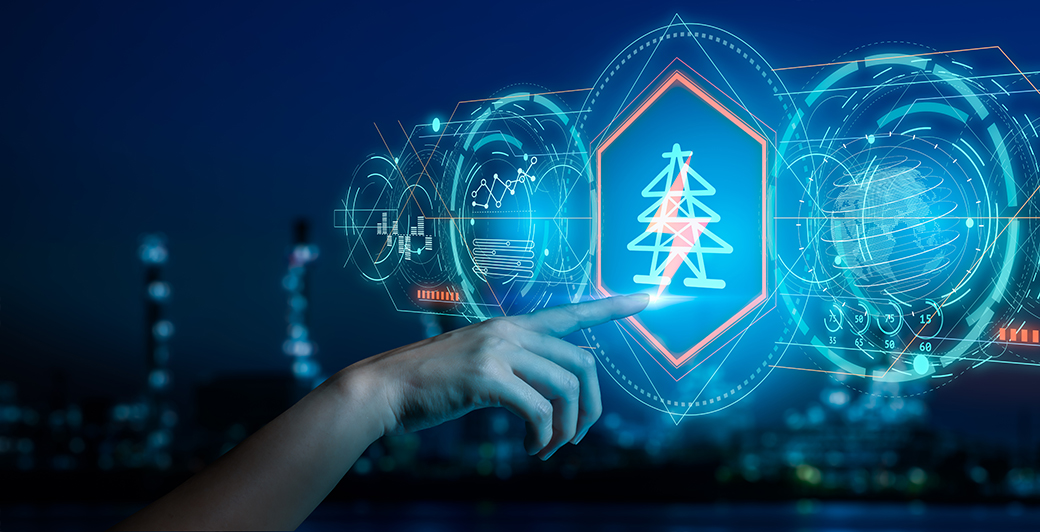
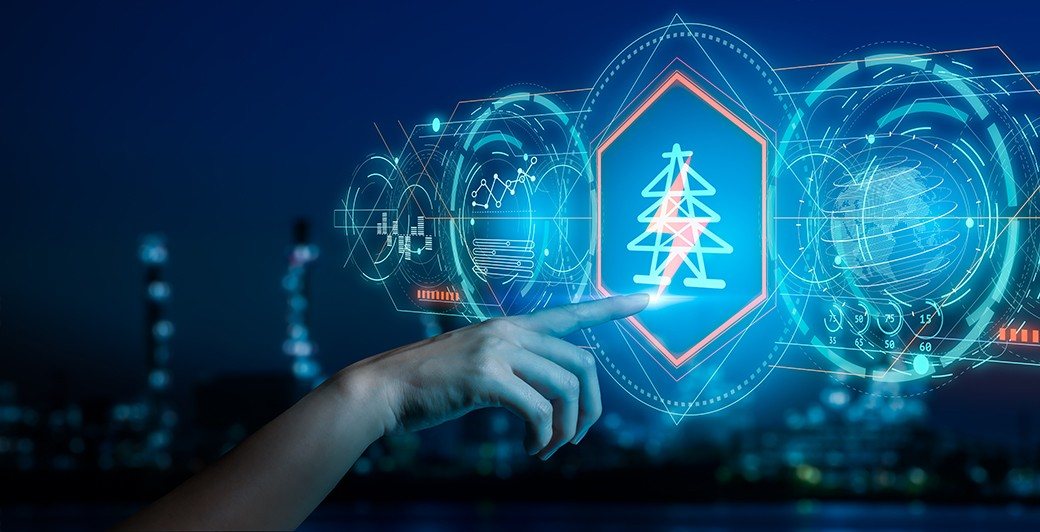
Changes related to images on azure storage

diff --git a/apps/ptg-ui-apps-react-backend/src/app/constants/constants.ts b/apps/ptg-ui-apps-react-backend/src/app/constants/constants.ts
@@ -16,10 +16,7 @@ import vue_Image from '../../assets/images/vue.png';
 import javascript_Image from '../../assets/images/javascript-1.svg';
 import nextjs_Image from '../../assets/images/nextjs.png';
 import MaterialUI_Image from '../../assets/images/materialui.png';
-import SujalImage from '../../assets/images/UI-Sujal.jpg';
-import NitinImage from '../../assets/images/UI-Nitin.jpg';
-import LokeshImage from '../../assets/images/UI-Lokesh.jpg';
-import LokeshDaiyaImage from '../../assets/images/UI-Lokesh.jpeg';
+import { environment } from '@ptg-ui-apps-react-backend/environments/environment';
 export const tabs = [
   { label: 'Home', to: '/home' },
 
@@ -137,24 +134,36 @@ export const contactsTeams = [
     name: 'Nitin Gupta',
     designation: 'Business Unit Head',
     email: '[email redacted]',
-    photo: NitinImage,
+    photo:
+      process.env['NODE_ENV'] === 'production'
+        ? `${environment.url}/UI-Nitin.jpg`
+        : `${environment.localUrl}/assets/images/UI-Nitin.jpg`,
   },
   {
     name: 'Lokesh Sapre',
     designation: 'Competency Head',
     email: '[email redacted]',
-    photo: LokeshImage,
+    photo:
+      process.env['NODE_ENV'] === 'production'
+        ? `${environment.url}/UI-Lokesh.jpg`
+        : `${environment.localUrl}/assets/images/UI-Lokesh.jpg`,
   },
   {
     name: 'Sujal Ray',
     designation: 'Competency Manager',
     email: '[email redacted]',
-    photo: SujalImage,
+    photo:
+      process.env['NODE_ENV'] === 'production'
+        ? `${environment.url}/UI-Sujal.jpg`
+        : `${environment.localUrl}/assets/images/UI-Sujal.jpg`,
   },
   {
     name: 'Lokesh Daiya',
     designation: 'Solution Architect',
     email: '[email redacted]',
-    photo: LokeshDaiyaImage,
+    photo:
+      process.env['NODE_ENV'] === 'production'
+        ? `${environment.url}/UI-Lokesh.jpeg`
+        : `${environment.localUrl}/assets/images/UI-Nitin.jpeg`,
   },
 ];

diff --git a/apps/ptg-ui-apps-react-backend/src/app/components/Home.tsx b/apps/ptg-ui-apps-react-backend/src/app/components/Home.tsx
@@ -1,17 +1,23 @@
 import React from 'react';
 import { Col, Row, Image, Container } from 'react-bootstrap';
-
-import visionImage from '../../assets/images/yash_vision.jpg';
-import missionImage from '../../assets/images/yash_mission.jpg';
 import { carouselItems } from '@ptg-ui-apps-react-backend/constants/constants';
 import ClientCarousel from './CarouselImageContainer'; // Import the new carousel component
+import { environment } from '@ptg-ui-apps-react-backend/environments/environment';
 const Home: React.FC = () => {
   return (
     <Container fluid className="bg-dark text-light p-5">
       <section id="about" className="text-center">
         <Row className="mb-5">
           <Col xs={12} md={6} className="mb-4">
-            <Image src={visionImage} fluid alt="Vision" />
+            <Image
+              src={
+                process.env['NODE_ENV'] === 'production'
+                  ? `${environment.url}/yash_vision.jpg`
+                  : `${environment.localUrl}/assets/images/yash_vision.jpg`
+              }
+              fluid
+              alt="Vision"
+            />
           </Col>
           <Col xs={12} md={6}>
             <h2 className="pt-3 pb-2">Vision</h2>
@@ -35,7 +41,11 @@ const Home: React.FC = () => {
           </Col>
           <Col xs={12} md={6}>
             <Image
-              src={missionImage}
+              src={
+                process.env['NODE_ENV'] === 'production'
+                  ? `${environment.url}/yash_vision.jpg`
+                  : `${environment.localUrl}/assets/images/yash_mission.jpg`
+              }
               fluid
               className="shadow rounded"
               alt="Mission"

diff --git a/apps/ptg-ui-apps-react-backend/src/app/environments/environment.ts b/apps/ptg-ui-apps-react-backend/src/app/environments/environment.ts
@@ -1,0 +1,4 @@
+export const environment = {
+  localUrl: 'http://localhost:3000',
+  url: 'https://yashuiappstorage.blob.core.windows.net/yashuiappimages',
+};